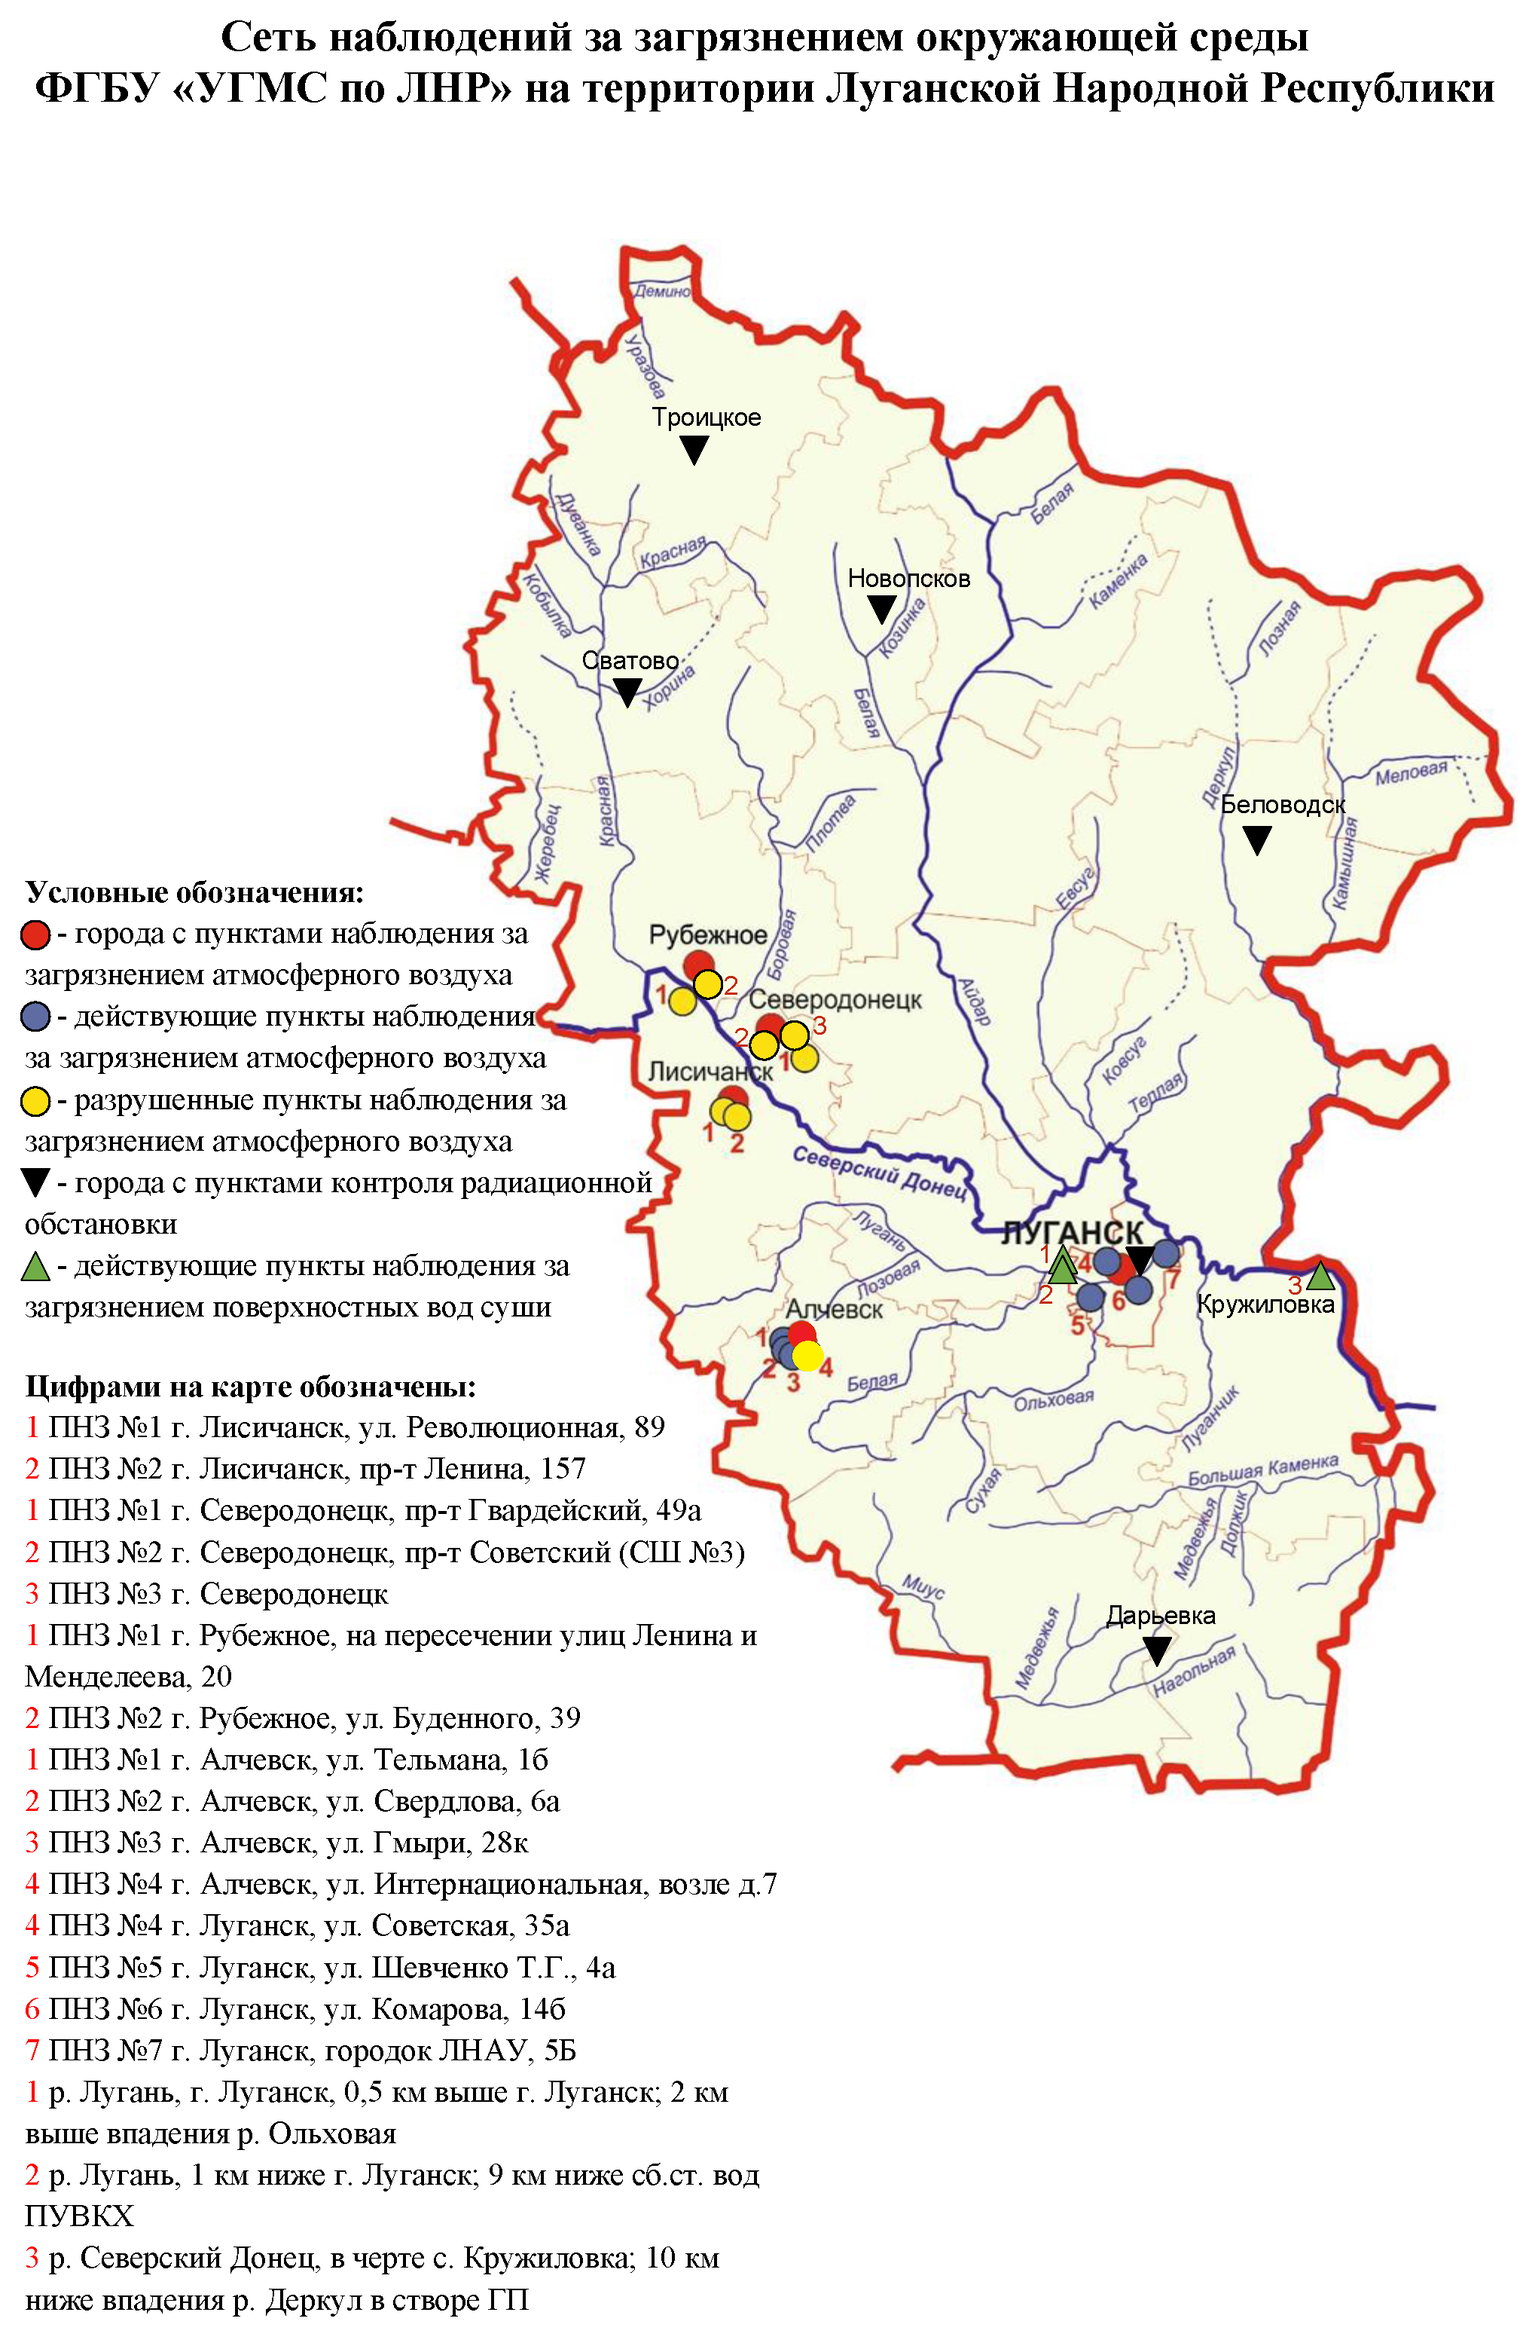
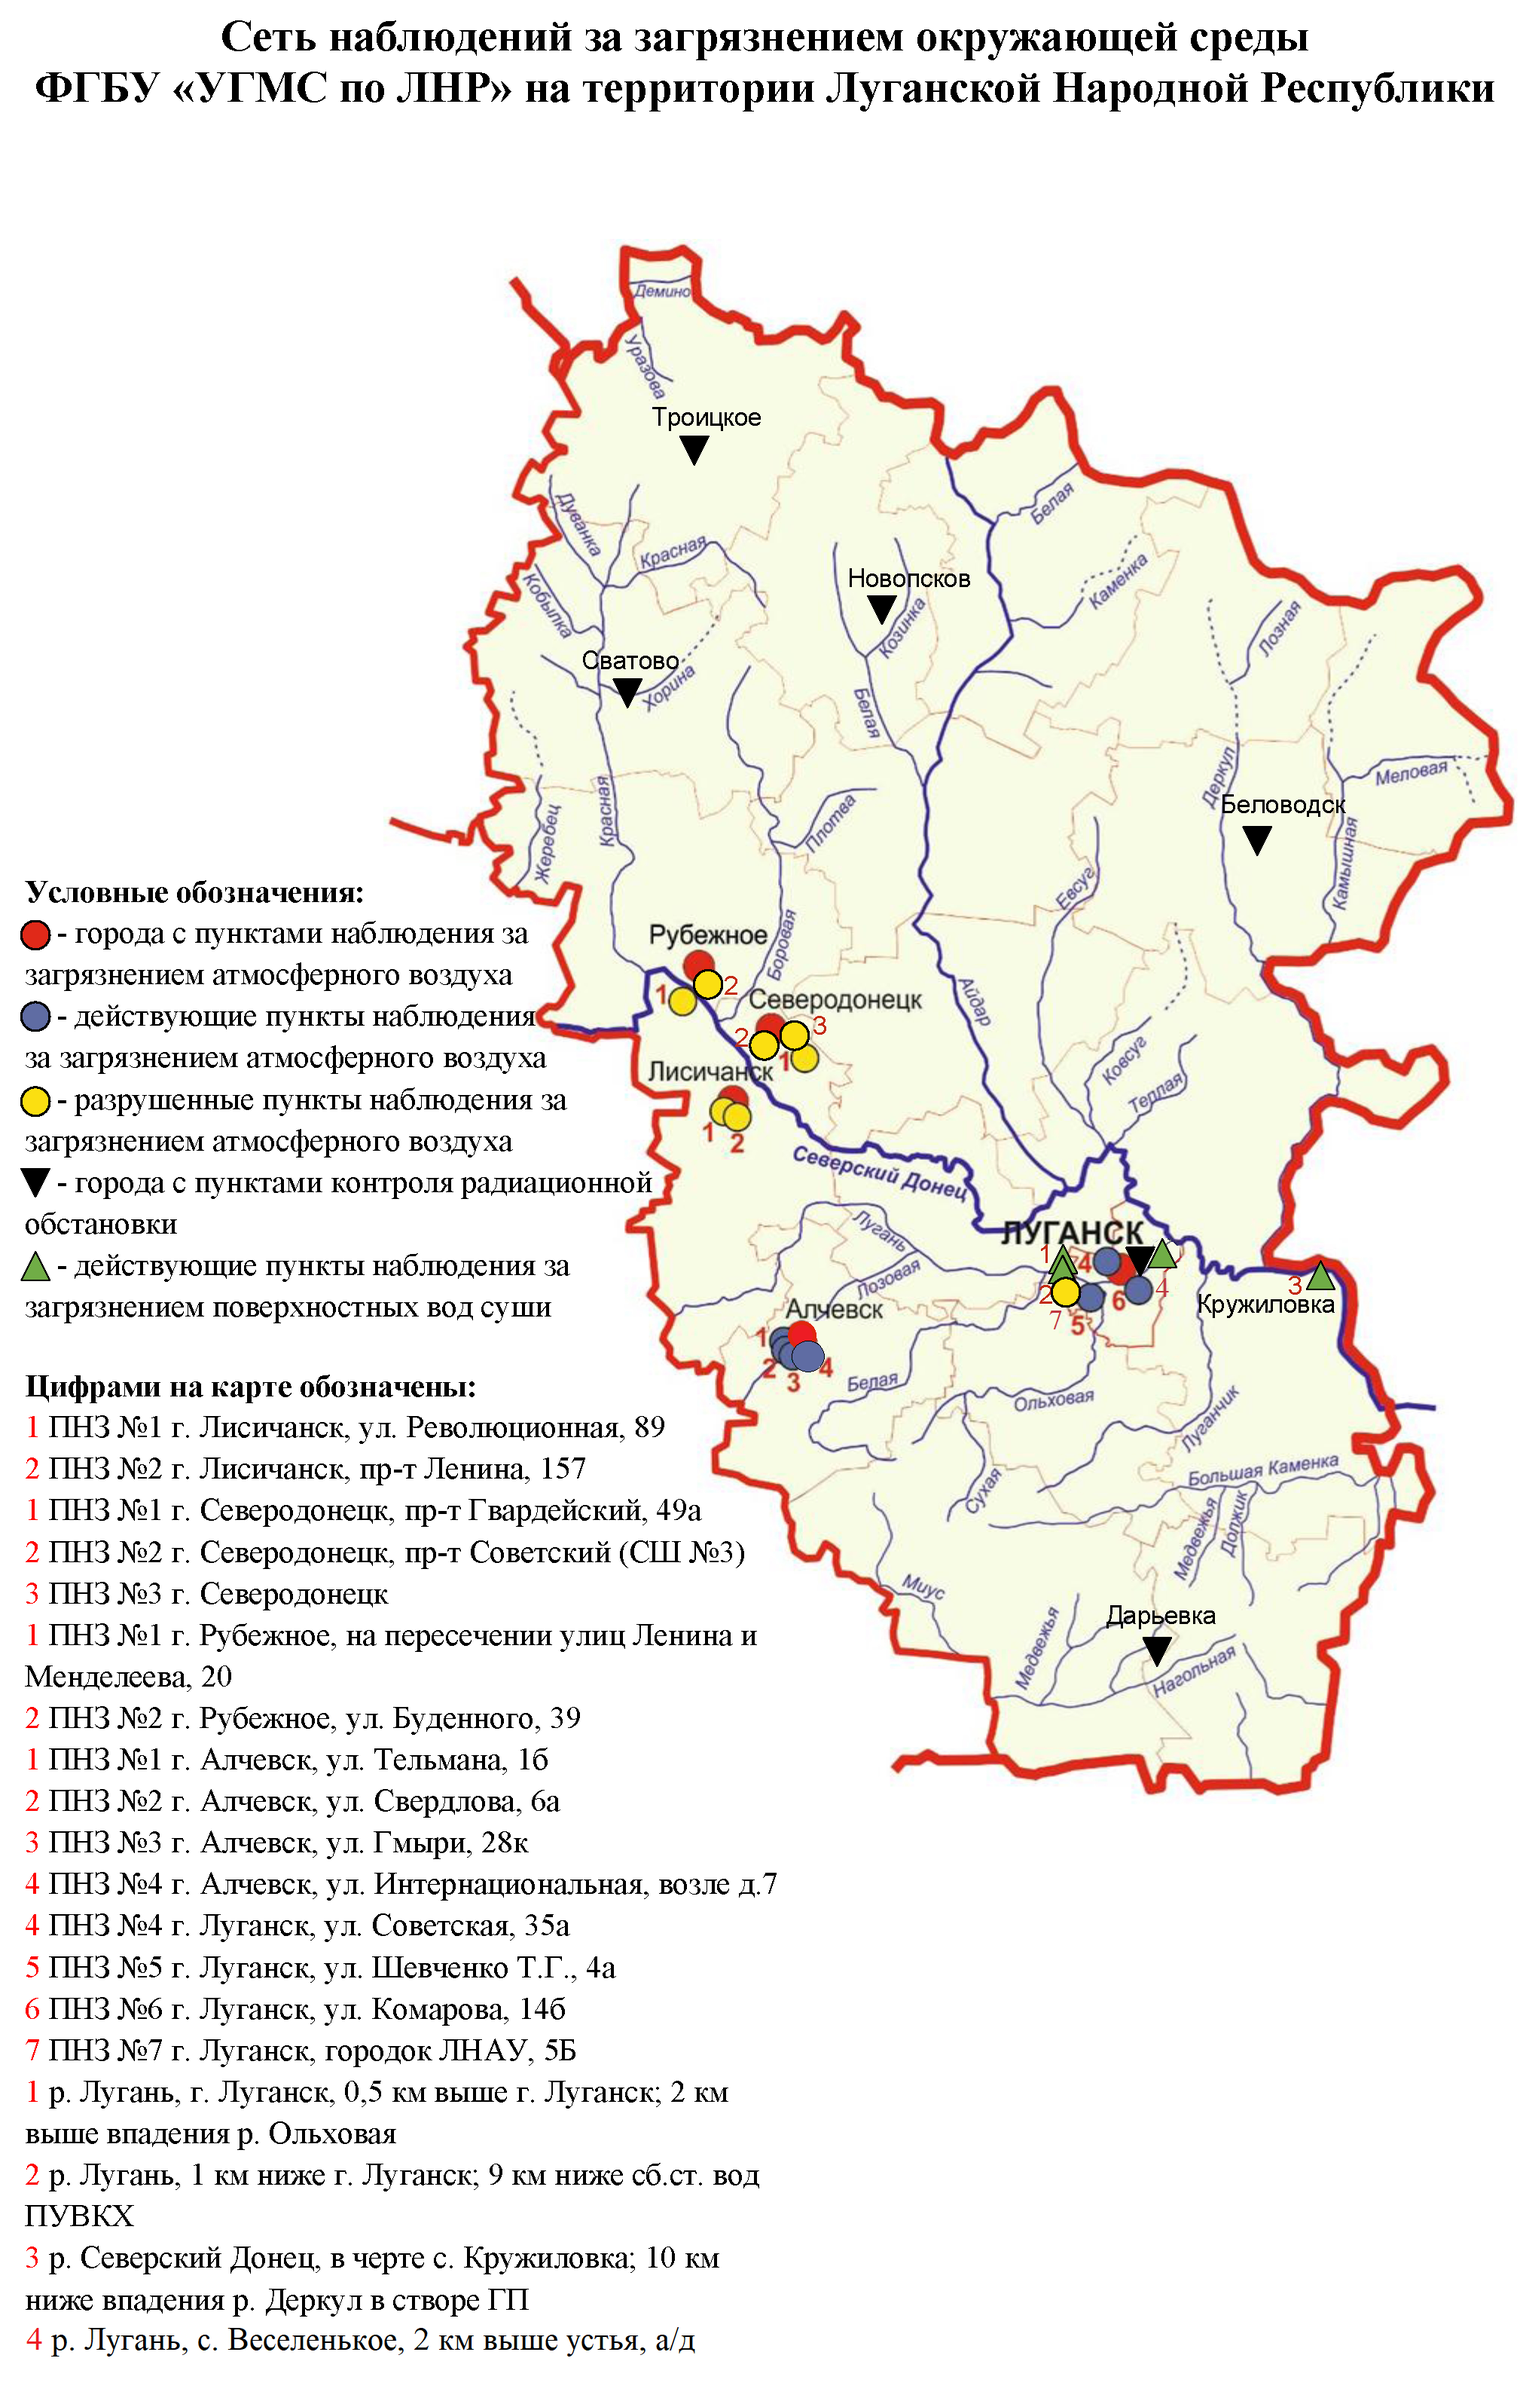
epm info update

Changed region(s): [[0.0, 0.0932, 0.9951, 0.9946], [0.4664, 0.9013, 0.4975, 0.9324]]

diff --git a/epm/index.php b/epm/index.php
@@ -18,15 +18,19 @@
 <li>комплексная лаборатория по мониторингу загрязнения окружающей среды (КЛМЗОС);</li>
 <li>лаборатория по мониторингу загрязнения атмосферного воздуха Алчевск (ЛМЗА Алчевск).</li>
 </p>
-<p> Мониторинг загрязнения атмосферного воздуха осуществляется в двух городах на семи пунктах наблюдения за загрязнением атмосферного воздуха (ПНЗ): г. Луганск – 4 ПНЗ; г. Алчевск – 3 ПНЗ. Согласно программе работ, производятся наблюдения за концентрациями 9 показателей в Луганске и 9 показателей в Алчевске. </p>
-<p> Мониторинг загрязнения поверхностных вод суши осуществляется в двух пунктах наблюдения (трех створах) бассейна р. Северский Донец Азовского гидрографического района на водотоках (р. Лугань I створ, 0,5 км выше г. Луганск; р. Лугань II створ, 1 км ниже г. Луганск; р. Северский Донец, с. Кружиловка) по результатам наблюдений за концентрациями 16 гидрохимических показателей. </p>
+<p> 
+Мониторинг загрязнения атмосферного воздуха осуществляется в двух городах на восьми пунктах наблюдения за загрязнением атмосферного воздуха (ПНЗ): г. Луганск – 4 ПНЗ; г. Алчевск – 4 ПНЗ. Согласно программе работ, производятся наблюдения за концентрациями 9 показателей в Луганске и 9 показателей в Алчевске.
+</p>
+<p> 
+Мониторинг загрязнения поверхностных вод суши осуществляется в трех пунктах наблюдений (четырех створах) бассейна р. Северский Донец Азовского гидрографического района на водотоках (р. Лугань I створ, 0,5 км выше г. Луганск; р. Лугань II створ, 1 км ниже г. Луганск; р. Лугань, с. Веселенькое; р. Северский Донец, с. Кружиловка) по результатам наблюдений за концентрациями 16 гидрохимических показателей.
+</p>
 <p> Радиационный мониторинг включает в себя ежедневные измерения мощности экспозиционной дозы (МЭД) 1 раз в сутки в 6 населенных пунктах: г. Луганск, г. Сватово, п. Новодарьевка, пгт. Беловодск, пгт. Новопсков, пгт. Троицкое. </p>
       </div>
       <div id='contacts'>
         <h4> Контактная информация </h4>
         <div>
           <div> Шишова Светлана Сергеевна – заместитель начальника учреждения – начальник Центра по мониторингу загрязнения окружающей среды  </div>
-          <div> Электронная почта: <a href='mailto:ugms@lnr.mecom.ru'>ugms@lnr.mecom.ru</a></div>
+          <div> Электронная почта: <a href='mailto:shishova@lnr.mecom.ru'>shishova@lnr.mecom.ru</a></div>
           <div> Телефон: <a href='tel:8(572)96-60-61'>8(572)96-60-61</a></div>
         </div>
       </div>
